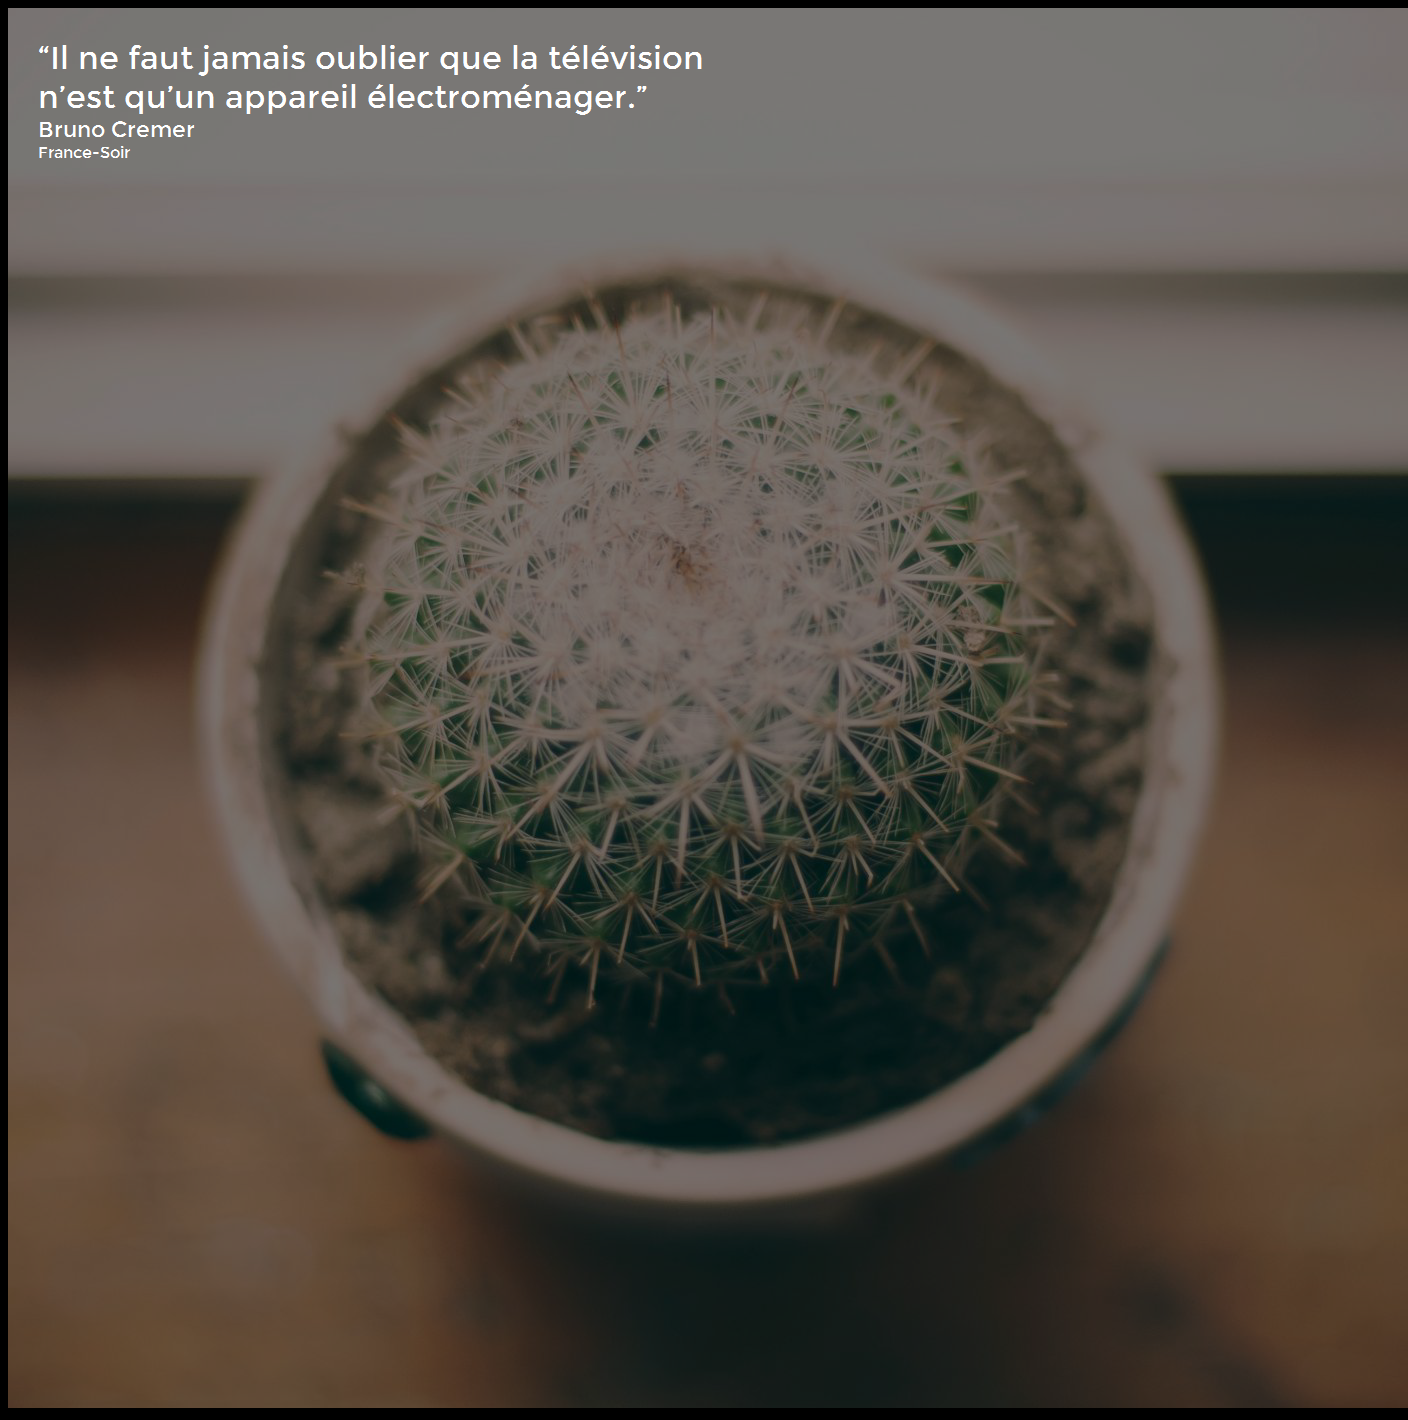
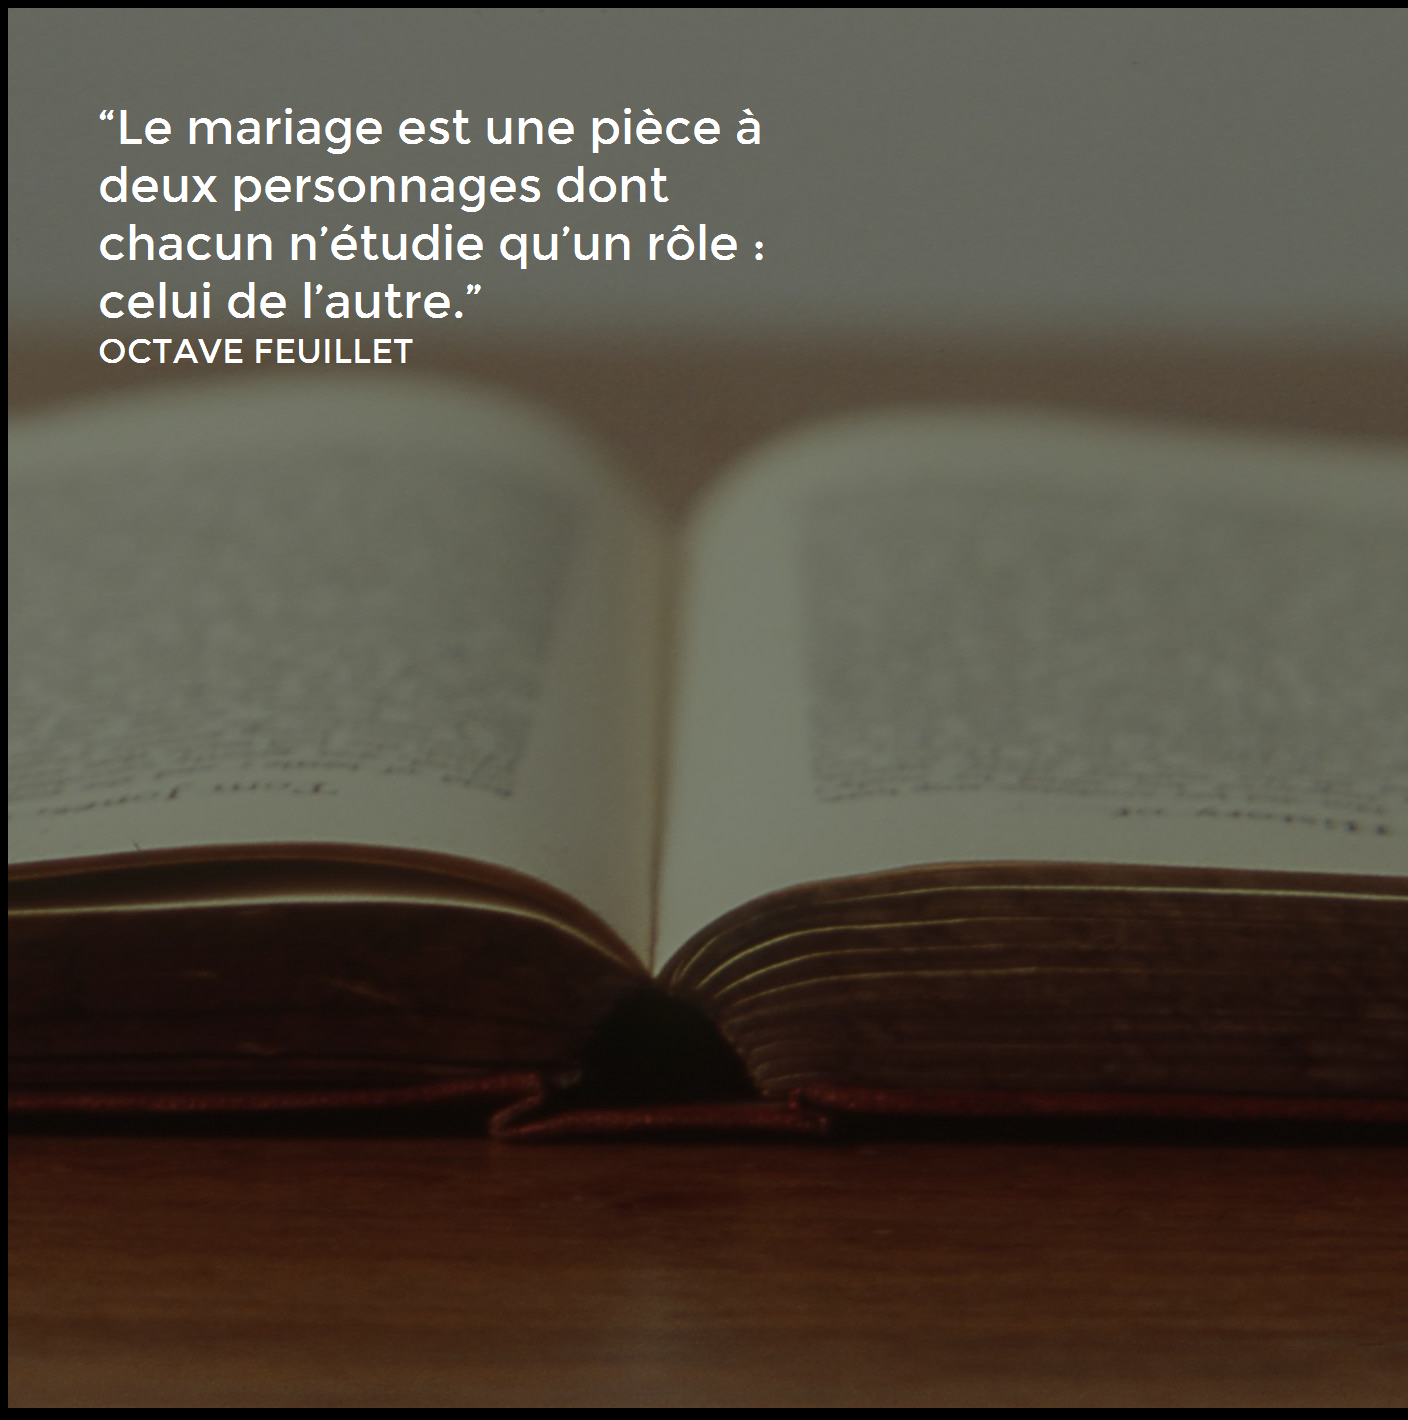
Fix 365 Background api

diff --git a/routes/citations365.js b/routes/citations365.js
@@ -14,16 +14,18 @@ const BG_PC_NAME = 'pc.png';
 const BG_PC_PATH = getRoot() + '\\public\\modules\\citations365\\walls\\pc.png';
 
 // Schedule
-const wallpaperSched = later.parse.recur().every(1).hour();
+const wallpaperSched = later.parse.recur().every(1).minute();
 const wallTimer = later.setInterval(generateWallpapers, wallpaperSched);
 
 function generateWallpapers() {
+  console.log('screen!');
   screenshot('phone');
   screenshot('pc');
 }
 
 function screenshot(device) {
-  var url = 'http://www.sideffects.fr/api/365/screenshot?device=' + device;
+  // var url = 'http://www.sideffects.fr/api/365/screenshot?device=' + device;
+  var url = 'http://localhost:3003/api/365/screenshot?device=' + device;
   request(url);
 }
 
@@ -71,13 +73,13 @@ router.get('/screenshot', function (req, res) {
       // console.log(content);
       sitepage.close();
       phInstance.exit();
+      res.status(200).send('done');
     })
     .catch(error => {
       console.log(error);
       phInstance.exit();
+      res.status(500).send(error);
     });
-
-	res.status(200).send('done');
 })
 
 .get('/preview', function (req, res) {
@@ -121,8 +123,8 @@ router.get('/screenshot', function (req, res) {
         }
 
         quote = quote;
-        author = author.replace(/\s{2}/g, '').substr(4);
-        ref = ref.replace(/\s{2}/g, '');
+        author = author.replace(/\s{2}/g, '').replace(/Vos avis(.)*:/g, '').substr(4);
+        ref = ref ? ref.replace(/\s{2}/g, '') : '';
 
         break;
       }

diff --git a/public/modules/citations365/scripts.js b/public/modules/citations365/scripts.js
@@ -22,6 +22,6 @@ function populateBackground(quote) {
     var ref = document.querySelector('.quote .ref');
 
     content.textContent = quote.content;
-    author.textContent = quote.author;
-    ref.textContent = quote.ref;
+    author.textContent = quote.author.toUpperCase();
+    ref.textContent = quote.ref.toUpperCase();
 }

diff --git a/public/modules/citations365/styles.css b/public/modules/citations365/styles.css
@@ -9,10 +9,10 @@ body {
 }
 .quote {
   position: absolute;
-  font-size: 3.5em;
+  font-size: 3em;
   color: #fff;
   width: 728px;
-  padding: 60px;
+  padding: 90px;
   z-index: 2;
 }
 .quote .content {
